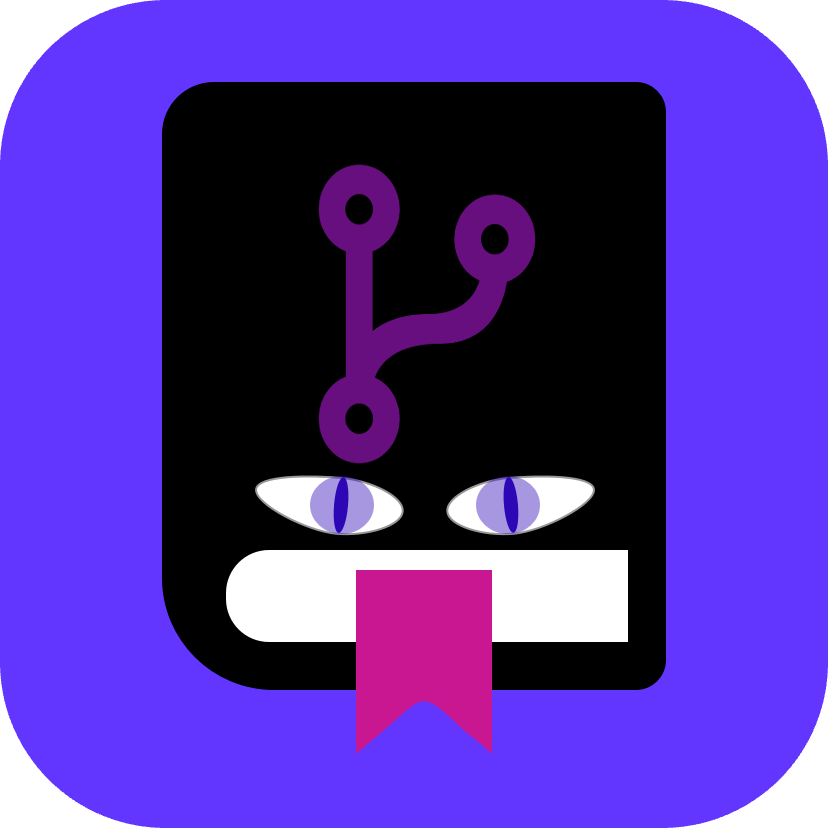
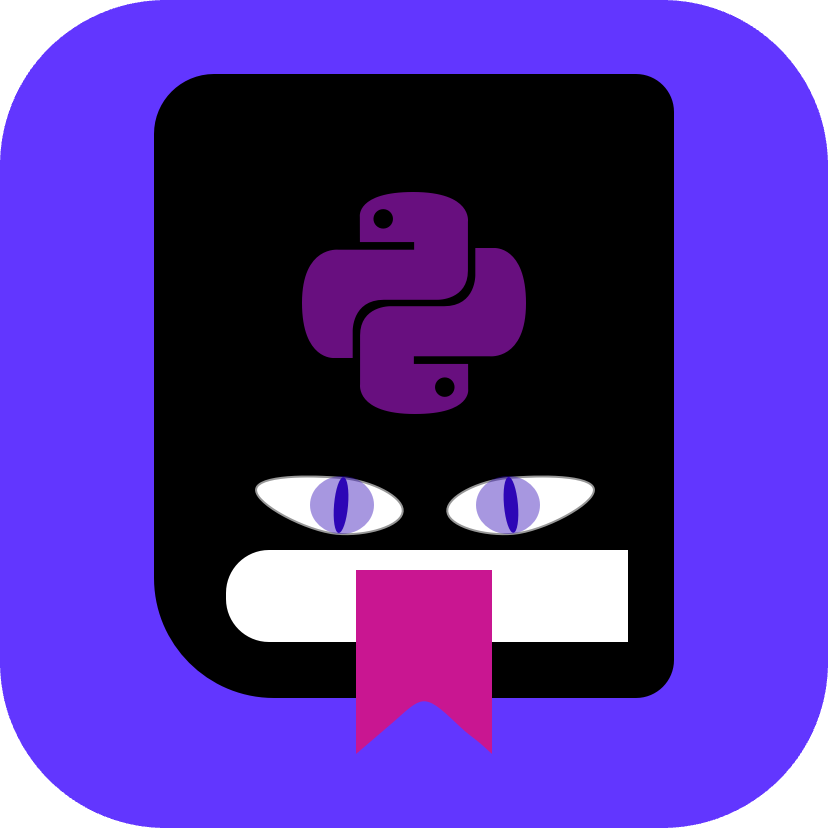
Update README

Changed region(s): [[0.3623, 0.1812, 0.6643, 0.5737], [0.1812, 0.0906, 0.8152, 0.8454]]

diff --git a/README.md b/README.md
@@ -160,7 +160,7 @@ Complete document library and resource reference list for **PRG**:
     <td align="center">
       <div style="margin: 10px; text-align: center;">
         <a href="./categories/table_generator_guide.md">
-          <img src="./docs/images/icon-pyrg-rounded.png" alt="Table Generator Guide"
+          <img src="./docs/images/icon_2-pyrg-rounded.png" alt="Table Generator Guide"
                style="max-width: 85px; height: auto; width: 85px;">
           <br>
           <b>Table Generator Guide</b>

diff --git a/categories/table_generator_guide.md b/categories/table_generator_guide.md
@@ -1,6 +1,6 @@
 <div align="center">
     <a href="https://github.com/scottgriv/PRG-Personal-Repository-Guidelines" target="_blank">
-        <img src="../docs/images/icon-pyrg-rounded.png" width="200" height="200"/>
+        <img src="../docs/images/icon_2-pyrg-rounded.png" width="200" height="200"/>
     </a>
 </div>
 

diff --git a/guidelines/brand_guidelines.md b/guidelines/brand_guidelines.md
@@ -1,6 +1,6 @@
 <div align="center">
     <a href="https://github.com/scottgriv/PRG-Personal-Repository-Guidelines" target="_blank">
-        <img src="../docs/images/icon_2-rounded.png" width="200" height="200"/>
+        <img src="../docs/images/icon-rounded.png" width="200" height="200"/>
     </a>
 </div>
 

diff --git a/guidelines/category_guidelines.md b/guidelines/category_guidelines.md
@@ -1,6 +1,6 @@
 <div align="center">
     <a href="https://github.com/scottgriv/PRG-Personal-Repository-Guidelines" target="_blank">
-        <img src="../docs/images/icon_2-rounded.png" width="200" height="200"/>
+        <img src="../docs/images/icon-rounded.png" width="200" height="200"/>
     </a>
 </div>
 

diff --git a/guidelines/readme_guidelines.md b/guidelines/readme_guidelines.md
@@ -1,6 +1,6 @@
 <div align="center">
     <a href="https://github.com/scottgriv/PRG-Personal-Repository-Guidelines" target="_blank">
-        <img src="../docs/images/icon_2-rounded.png" width="200" height="200"/>
+        <img src="../docs/images/icon-rounded.png" width="200" height="200"/>
     </a>
 </div>
 

diff --git a/guidelines/repository_settings_guidelines.md b/guidelines/repository_settings_guidelines.md
@@ -1,6 +1,6 @@
 <div align="center">
     <a href="https://github.com/scottgriv/PRG-Personal-Repository-Guidelines" target="_blank">
-        <img src="../docs/images/icon_2-rounded.png" width="200" height="200"/>
+        <img src="../docs/images/icon-rounded.png" width="200" height="200"/>
     </a>
 </div>
 

diff --git a/guidelines/repository_structure_guidelines.md b/guidelines/repository_structure_guidelines.md
@@ -1,6 +1,6 @@
 <div align="center">
     <a href="https://github.com/scottgriv/PRG-Personal-Repository-Guidelines" target="_blank">
-        <img src="../docs/images/icon_2-rounded.png" width="200" height="200"/>
+        <img src="../docs/images/icon-rounded.png" width="200" height="200"/>
     </a>
 </div>
 
